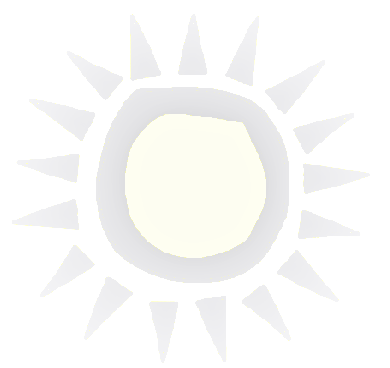
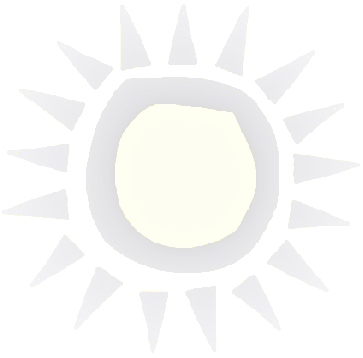
added a visual hit effect

diff --git a/lib/main.dart b/lib/main.dart
@@ -38,40 +38,41 @@ class _MainPageState extends State<MainPage> {
     return Column(
       children: <Widget>[
         Expanded(
-          child:  GestureDetector(
+          child:  Listener(
             //отвечает за нажатие по фону
-            onTap: () {
+            onPointerDown: (b){
               setState(() {
-                tapCount = tapCount + 0.5;
-                debugPrint('Green: $tapCount');
+                tapFlag = false;
+                tapCount = tapCount + 1;
               });
             },
+            onPointerUp: (P){
+              setState(() {
+                tapFlag = true;
+              });
+            } ,
             child: Container(               // отвечает за декорацию фона
               alignment: Alignment.center,
               decoration: const BoxDecoration(
                 image: DecorationImage(image: AssetImage("assets/backGround.png"))
               ),
-            child: GestureDetector(
-              //нажатие по главному объекту
-              onTap: () {
-                setState(() {
-                  tapCount = tapCount + 1;
-                  debugPrint('Yellow :$tapCount');
-                });
-              },
-              child: Container(              //ндекорация главного объекта
+            child:   Container(              //ндекорация главного объекта
                 width: 300,
                 height: 300,
                 alignment: Alignment.center,
-                decoration: BoxDecoration(
-                    image: DecorationImage(image: AssetImage(tapFlag ? "assets/sunMain.png" : "assets/sunBlure.png"))
+                decoration: const BoxDecoration(
+                    image: DecorationImage(image: AssetImage("assets/sunMain.png" ))
                 ),
-                child: _score(),
+                child: Stack(
+                  children: [
+                    Container(child: _score()),
+                    Container(child: _hitBox())
+                    ],
+                )
               )
             ),
             ),
           ),
-        ),
         Container(
           height: 52.6,
           width: 1000,
@@ -124,6 +125,22 @@ class _MainPageState extends State<MainPage> {
         )
     );
 
+  }
+
+ Widget _hitBox(){ //виджет для эффекта попадания
+    if (tapFlag == false){
+      debugPrint("$tapFlag");
+    return Container(
+      width: 300,
+      height: 300,
+      alignment: Alignment.center,
+      decoration: const BoxDecoration(
+          image: DecorationImage(image: AssetImage("assets/sunLight.png" ))
+      ),
+    );
+    } else{
+      return Container();
+    }
   }
 }
 
